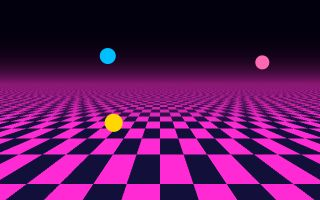
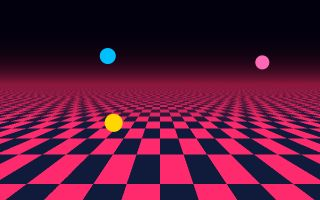
No violet where it was a choice: the sunset, neon, candy and aurora palettes and the chequered floor's colour are blues, pinks and reds (the rainbow, the heat camera and the C64's own colours keep theirs); the pictures and the page of every effect made again from them; a comment no longer uses a tim

diff --git a/visualfx.js b/visualfx.js
@@ -7,7 +7,7 @@
  *   kaleidoscope(8)                         on, eight segments
  *   glow(0.8)                               bright things shine
  *   const trail = trails(0.5, { zoom: 1.5, spin: 20 })
- *   trail.spin = Math.sin(time) * 40        a setting is a plain property: change it any time
+ *   trail.spin = 40                         a setting is a plain property: change it any time
  *   glowing.strength = () => 0.3 + bass()   or give it a function, asked every frame
  *
  * EFFECTS APPLY IN THE ORDER THEY ARE TURNED ON, to everything the scene has drawn, 2D or 3D. Each has
@@ -78,15 +78,15 @@ const PALETTES = {
   rainbow: ['#ff2a2a', '#ffd92a', '#3cff5a', '#2ad4ff', '#5a3cff', '#ff2ad4'],
   fire: ['#000000', '#5a0a00', '#d43a00', '#ff9a1a', '#ffe98a', '#5a0a00'],
   ocean: ['#02102a', '#0a3a7a', '#1a8ad4', '#6ae0e0', '#e8fff8', '#0a3a7a'],
-  sunset: ['#1a0a3a', '#6a1a7a', '#e0407a', '#ff8a3a', '#ffd86a', '#6a1a7a'],
-  neon: ['#0a001a', '#ff1ad9', '#1affea', '#f6ff1a', '#7a1aff', '#1affea'],
-  candy: ['#ff8ad4', '#ffd0e8', '#8ad4ff', '#b8ffd0', '#fff0a0', '#d0a0ff'],
+  sunset: ['#0a1030', '#7a1a4a', '#e0407a', '#ff8a3a', '#ffd86a', '#7a1a4a'],
+  neon: ['#00081a', '#ff1a8c', '#1affea', '#f6ff1a', '#1a6aff', '#1affea'],
+  candy: ['#ff8ad4', '#ffd0e8', '#8ad4ff', '#b8ffd0', '#fff0a0', '#a0c0ff'],
   forest: ['#04140a', '#0e4a22', '#3a8a2a', '#a8d44a', '#f0f0a0', '#0e4a22'],
   ice: ['#020818', '#103a6a', '#4a9ae0', '#b8e8ff', '#ffffff', '#4a9ae0'],
   lava: ['#1a0000', '#8a0a00', '#ff3a00', '#ff9a00', '#ffe27a', '#ff5a00'],
   mono: ['#000000', '#ffffff'],
   thermal: ['#000000', '#20008c', '#cc0077', '#ff3000', '#ffd000', '#ffffff'],
-  aurora: ['#00ff9a', '#00b0ff', '#8a2be2', '#00ff9a'],
+  aurora: ['#00ff9a', '#00b0ff', '#2b6be2', '#00ff9a'],
   gameboy: ['#0f380f', '#306230', '#8bac0f', '#9bbc0f'],
   c64: ['#000000', '#352879', '#6c5eb5', '#9a6759', '#b8c76f', '#ffffff'],
   amiga: ['#000022', '#0055aa', '#ff8800', '#ffffff'],
@@ -939,7 +939,7 @@ vec3 backdrop(vec2 uv) {
   }
   return c;
 }`, { backdrop: true, rename: { size: 'big' } })
-define('checkerFloor', ['colour'], { colour: colour('#ff2ad4'), dark: colour('#12103a'), speed: num(1, -10, 10) }, `
+define('checkerFloor', ['colour'], { colour: colour('#ff2a6d'), dark: colour('#101a3a'), speed: num(1, -10, 10) }, `
 vec3 backdrop(vec2 uv) {
   float h = 0.42, d = uv.y - h;
   if (d <= 0.0) return mix(vec3(0.01, 0.0, 0.05), colour * 0.55, pow(uv.y / h, 5.0));

diff --git a/docs/effects.md b/docs/effects.md
@@ -1534,12 +1534,12 @@ A chequered floor rushing towards you under a glowing horizon.
 
 | JavaScript | Python |
 |---|---|
-| `checkerFloor("#ff2ad4")` | `checker_floor("#ff2ad4")` |
+| `checkerFloor("#ff2a6d")` | `checker_floor("#ff2a6d")` |
 
 | Setting | In Python | Starts at | Can be |
 |---|---|---|---|
-| `colour` | `colour` | `"#ff2ad4"` | any colour |
-| `dark` | `dark` | `"#12103a"` | any colour |
+| `colour` | `colour` | `"#ff2a6d"` | any colour |
+| `dark` | `dark` | `"#101a3a"` | any colour |
 | `speed` | `speed` | `1` | -10 to 10 |
 | `amount` | `amount` | `1` | 0 to 1 |
 
